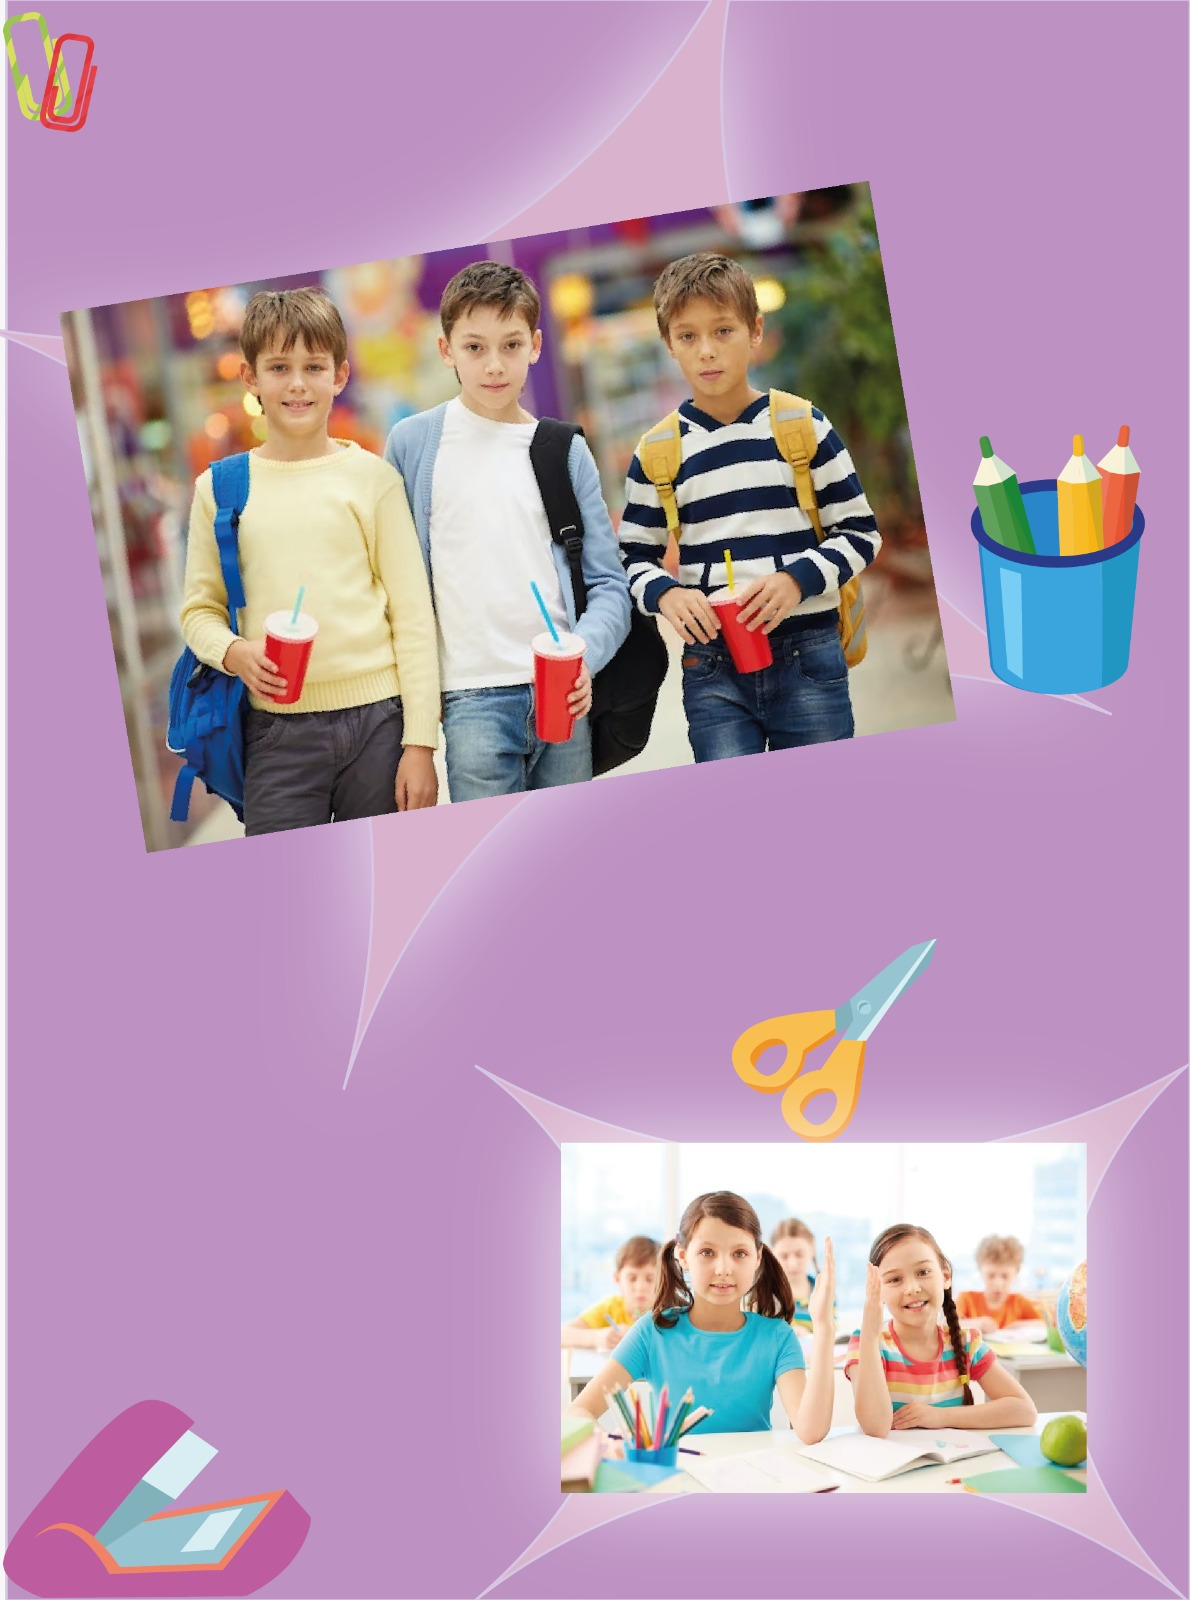
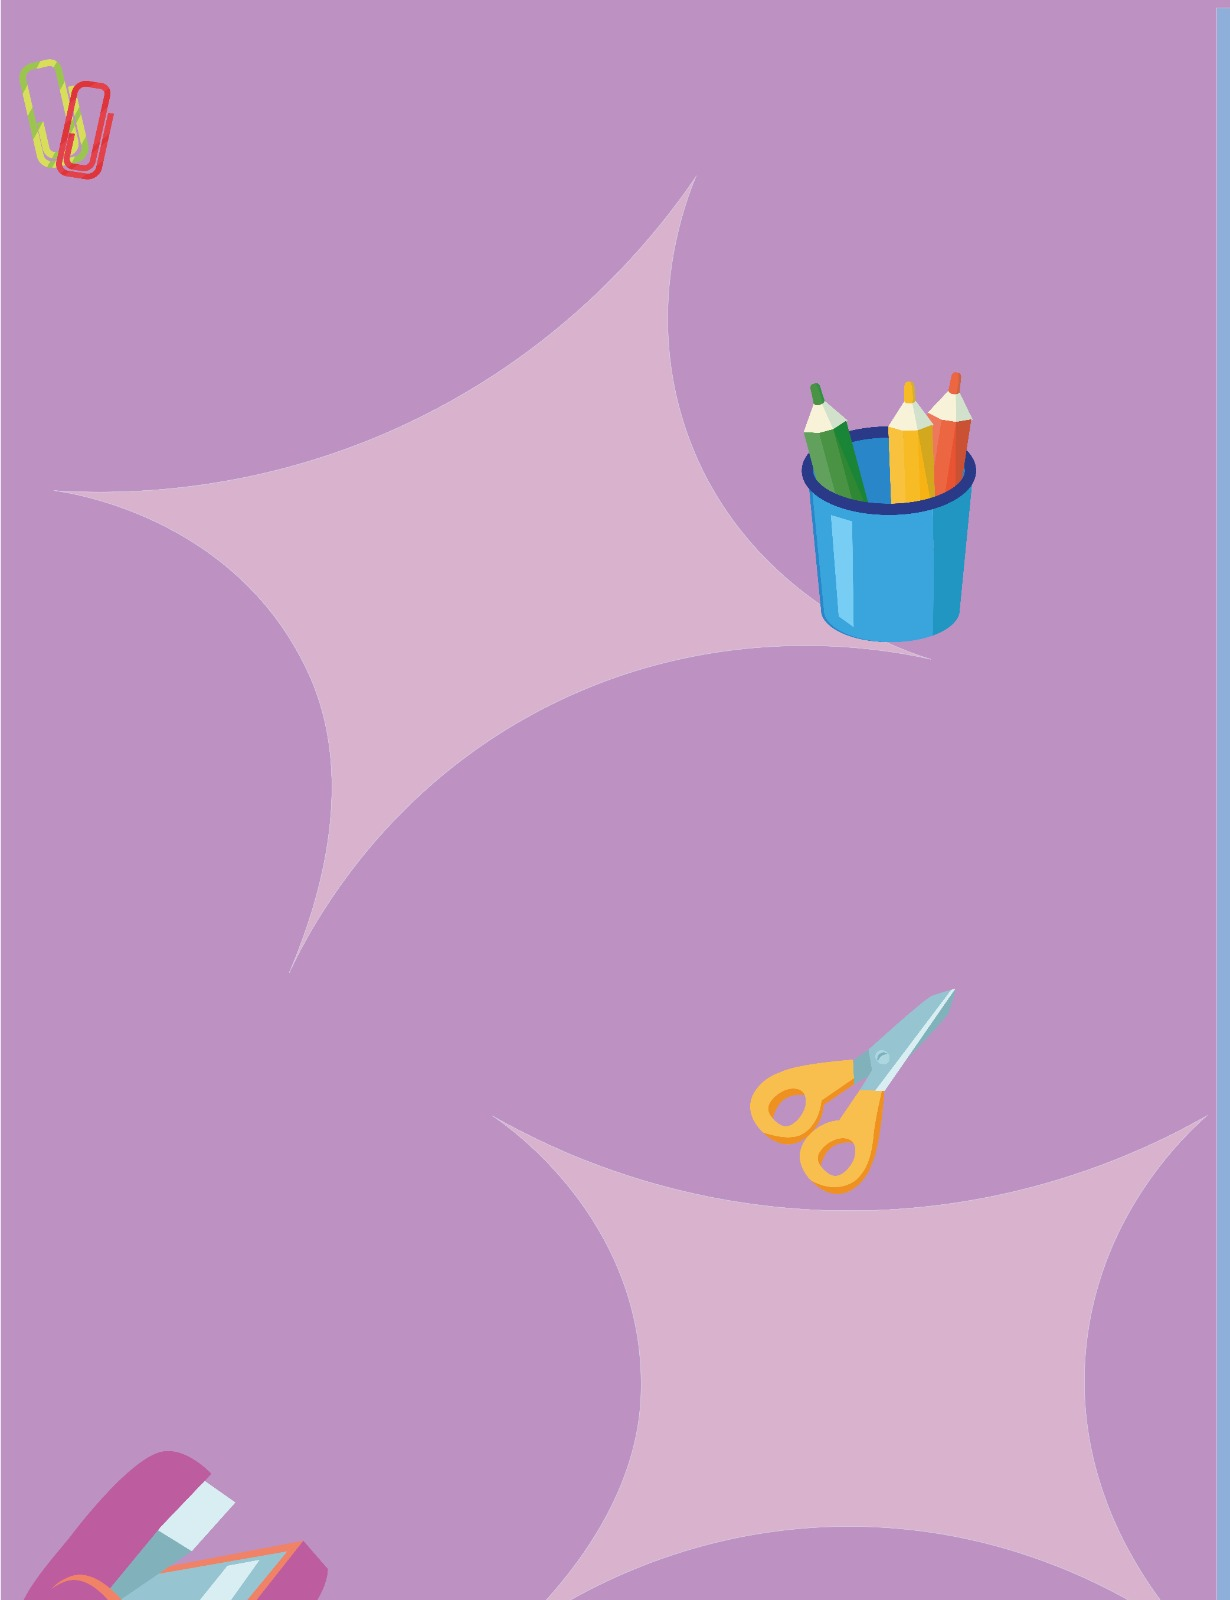
Se adapto el tamaño de imagen y subio el titulo arriba

diff --git a/index.html b/index.html
@@ -9,7 +9,9 @@
     <link rel="stylesheet" href="style.css">
 </head>
 <body style="background-image:url(img/00.jpeg)">
-
+    <div class="info">
+        <h5><marquee><i>Visor de imagenes</i></marquee></h5>
+    </div>
      <!-- Swiper -->
     <div class="swiper-container estiloContenedor">
         <div class="swiper-wrapper">
@@ -33,11 +35,11 @@
                     <h5>Recuerdos <br> <span>2023</span></h5>
                 </div>-->
             </div>
-            <div class="swiper-slide estiloImagen" style="background-image:url(img/05.jpeg)">
-                <!--<div class="info">
+            <!-- <div class="swiper-slide estiloImagen" style="background-image:url(img/05.jpeg)">
+                <div class="info">
                     <h5>Recuerdos <br> <span>2023</span></h5>
-                </div>-->
-            </div>
+                </div>
+            </div> -->
             <!--
             <div class="swiper-slide" style="background-image:url(img/06.jpg)">
                 <div class="info">
@@ -98,10 +100,7 @@
         <!-- Add Pagination -->
         <div class="swiper-pagination"></div>
     </div>
-    <div class="info">
-        <h5><i>Recuerdos</i></h5>
-    </div>
-
+   
     <script src="swiper.min.js"></script>
     <script>
         var swiper = new Swiper('.swiper-container', {

diff --git a/style.css b/style.css
@@ -8,7 +8,7 @@ body {
 }
 .swiper-container {
     width: 100%;
-    padding-top: 150px;
+    padding-top: 250px;
     padding-bottom: 50px;
 }
 
@@ -23,7 +23,7 @@ body {
     margin: 0;
     padding-top: 15px;
     position: absolute;
-    bottom: 0;
+    top: 0;
     text-align: center;
     width: 100%;
     height: 30px; /*60px*/
@@ -31,6 +31,7 @@ body {
     font-size: 20px;
     font-weight: bold;
     color: #fff;
+    display: block;
 }
 
 .info span{
